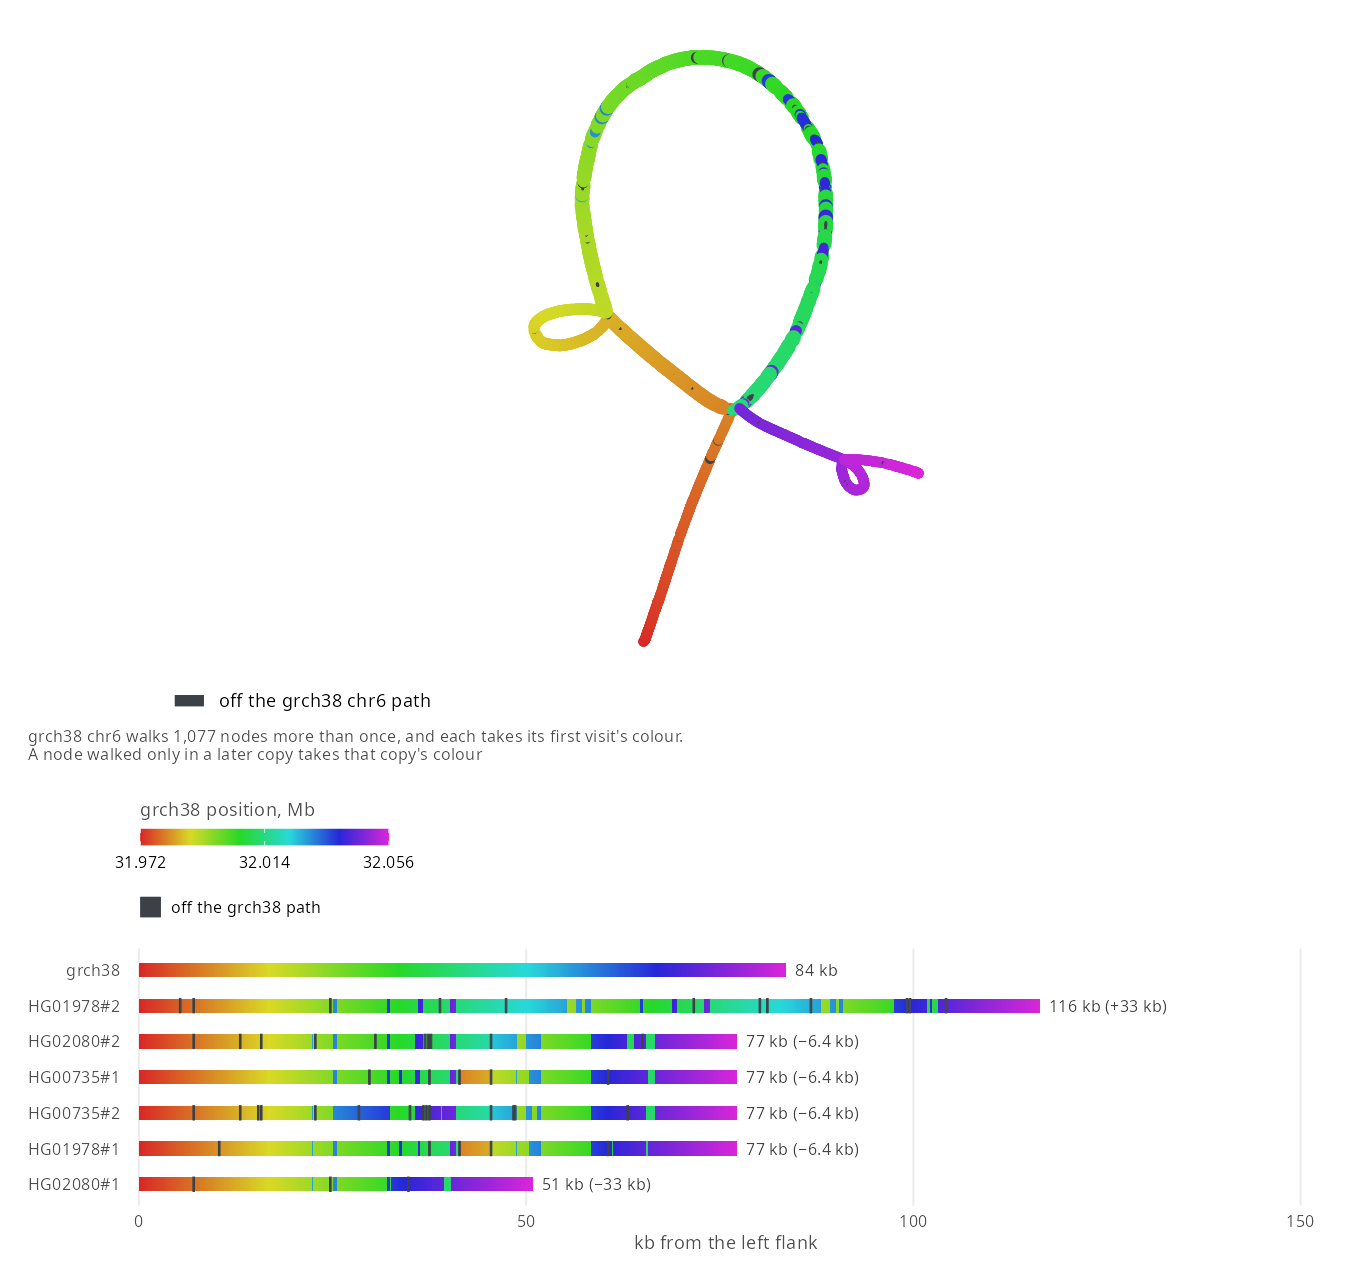
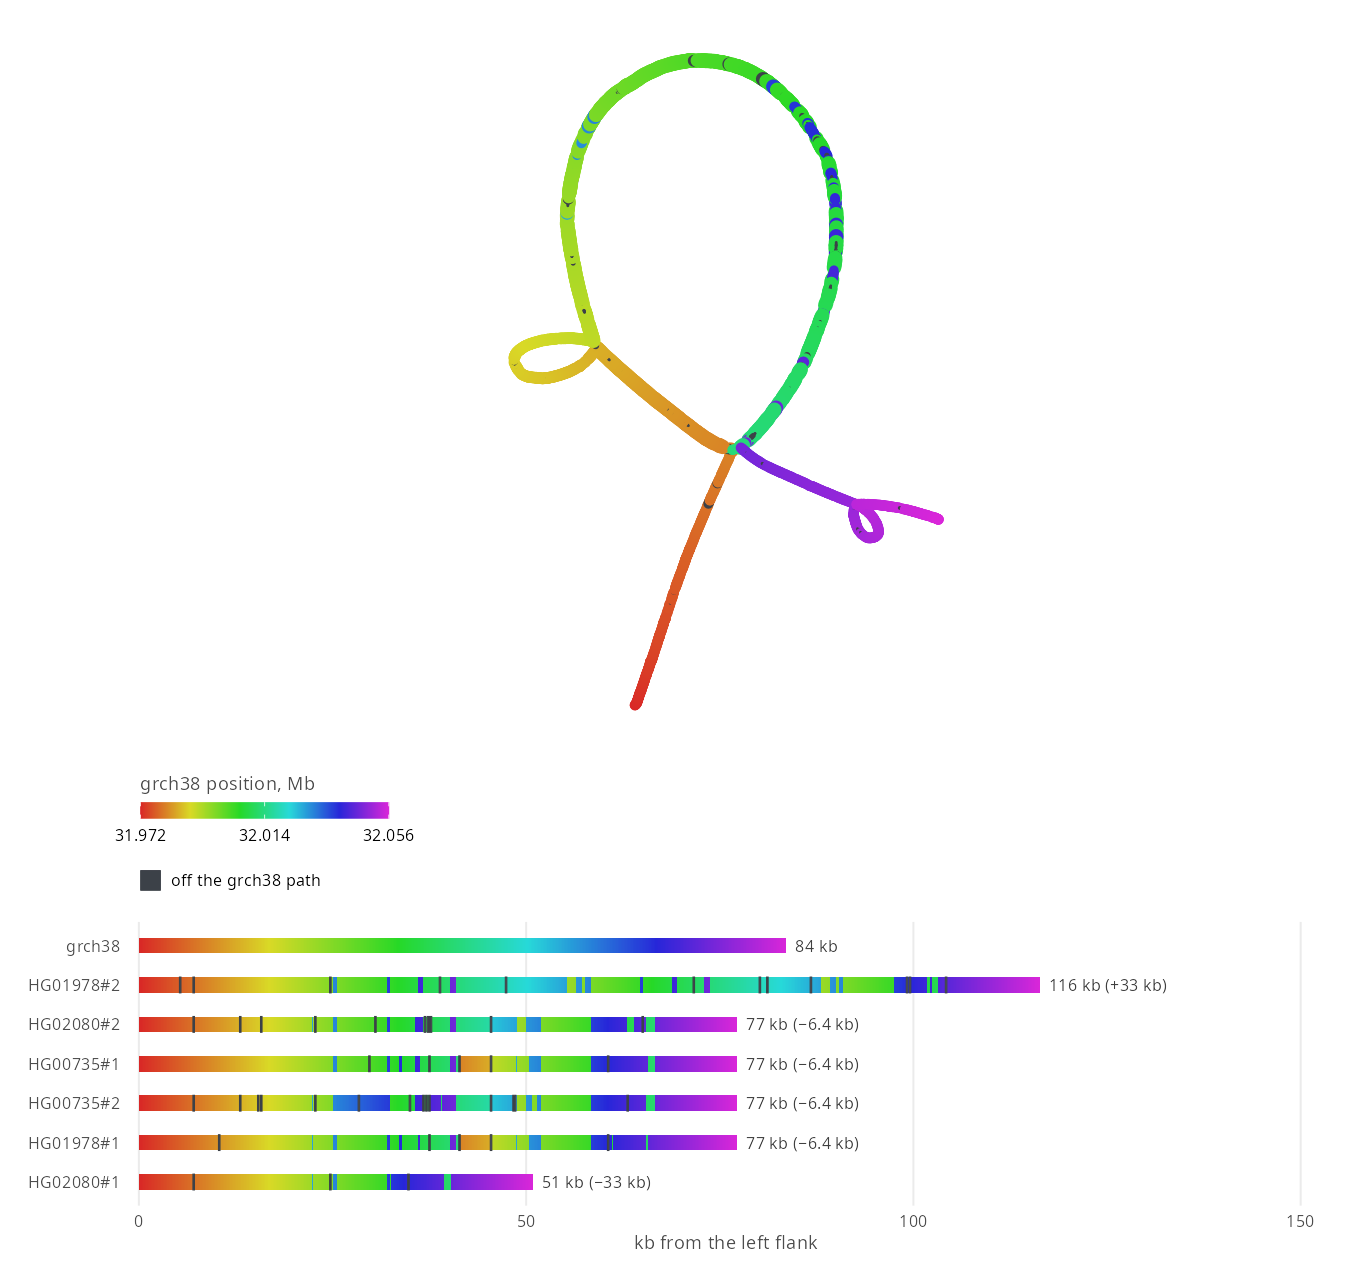
Drop syng_c4's caption and repeated off-path key
The gallery note already says a node takes its first visit's colour, and
the rows below key the off-path charcoal.

diff --git a/docs/gallery.md b/docs/gallery.md
@@ -293,7 +293,7 @@ syng <- "https://raw.githubusercontent.com/GMOD/jbrowse-plugin-graphgenomeviewer
 
 g <- bandage_layout(syng)
 rows <- bandage_walk_rows(syng, haplotypes = c("HG02080", "HG00735", "HG01978"))
-(autoplot(g) + guides(fill = "none")) /
+(autoplot(g) + guides(fill = "none", colour = "none", linetype = "none") + labs(caption = NULL)) /
   autoplot(rows, ribbons = FALSE, hues = "bandage") +
   plot_layout(heights = c(2.5, 1))
 ```
